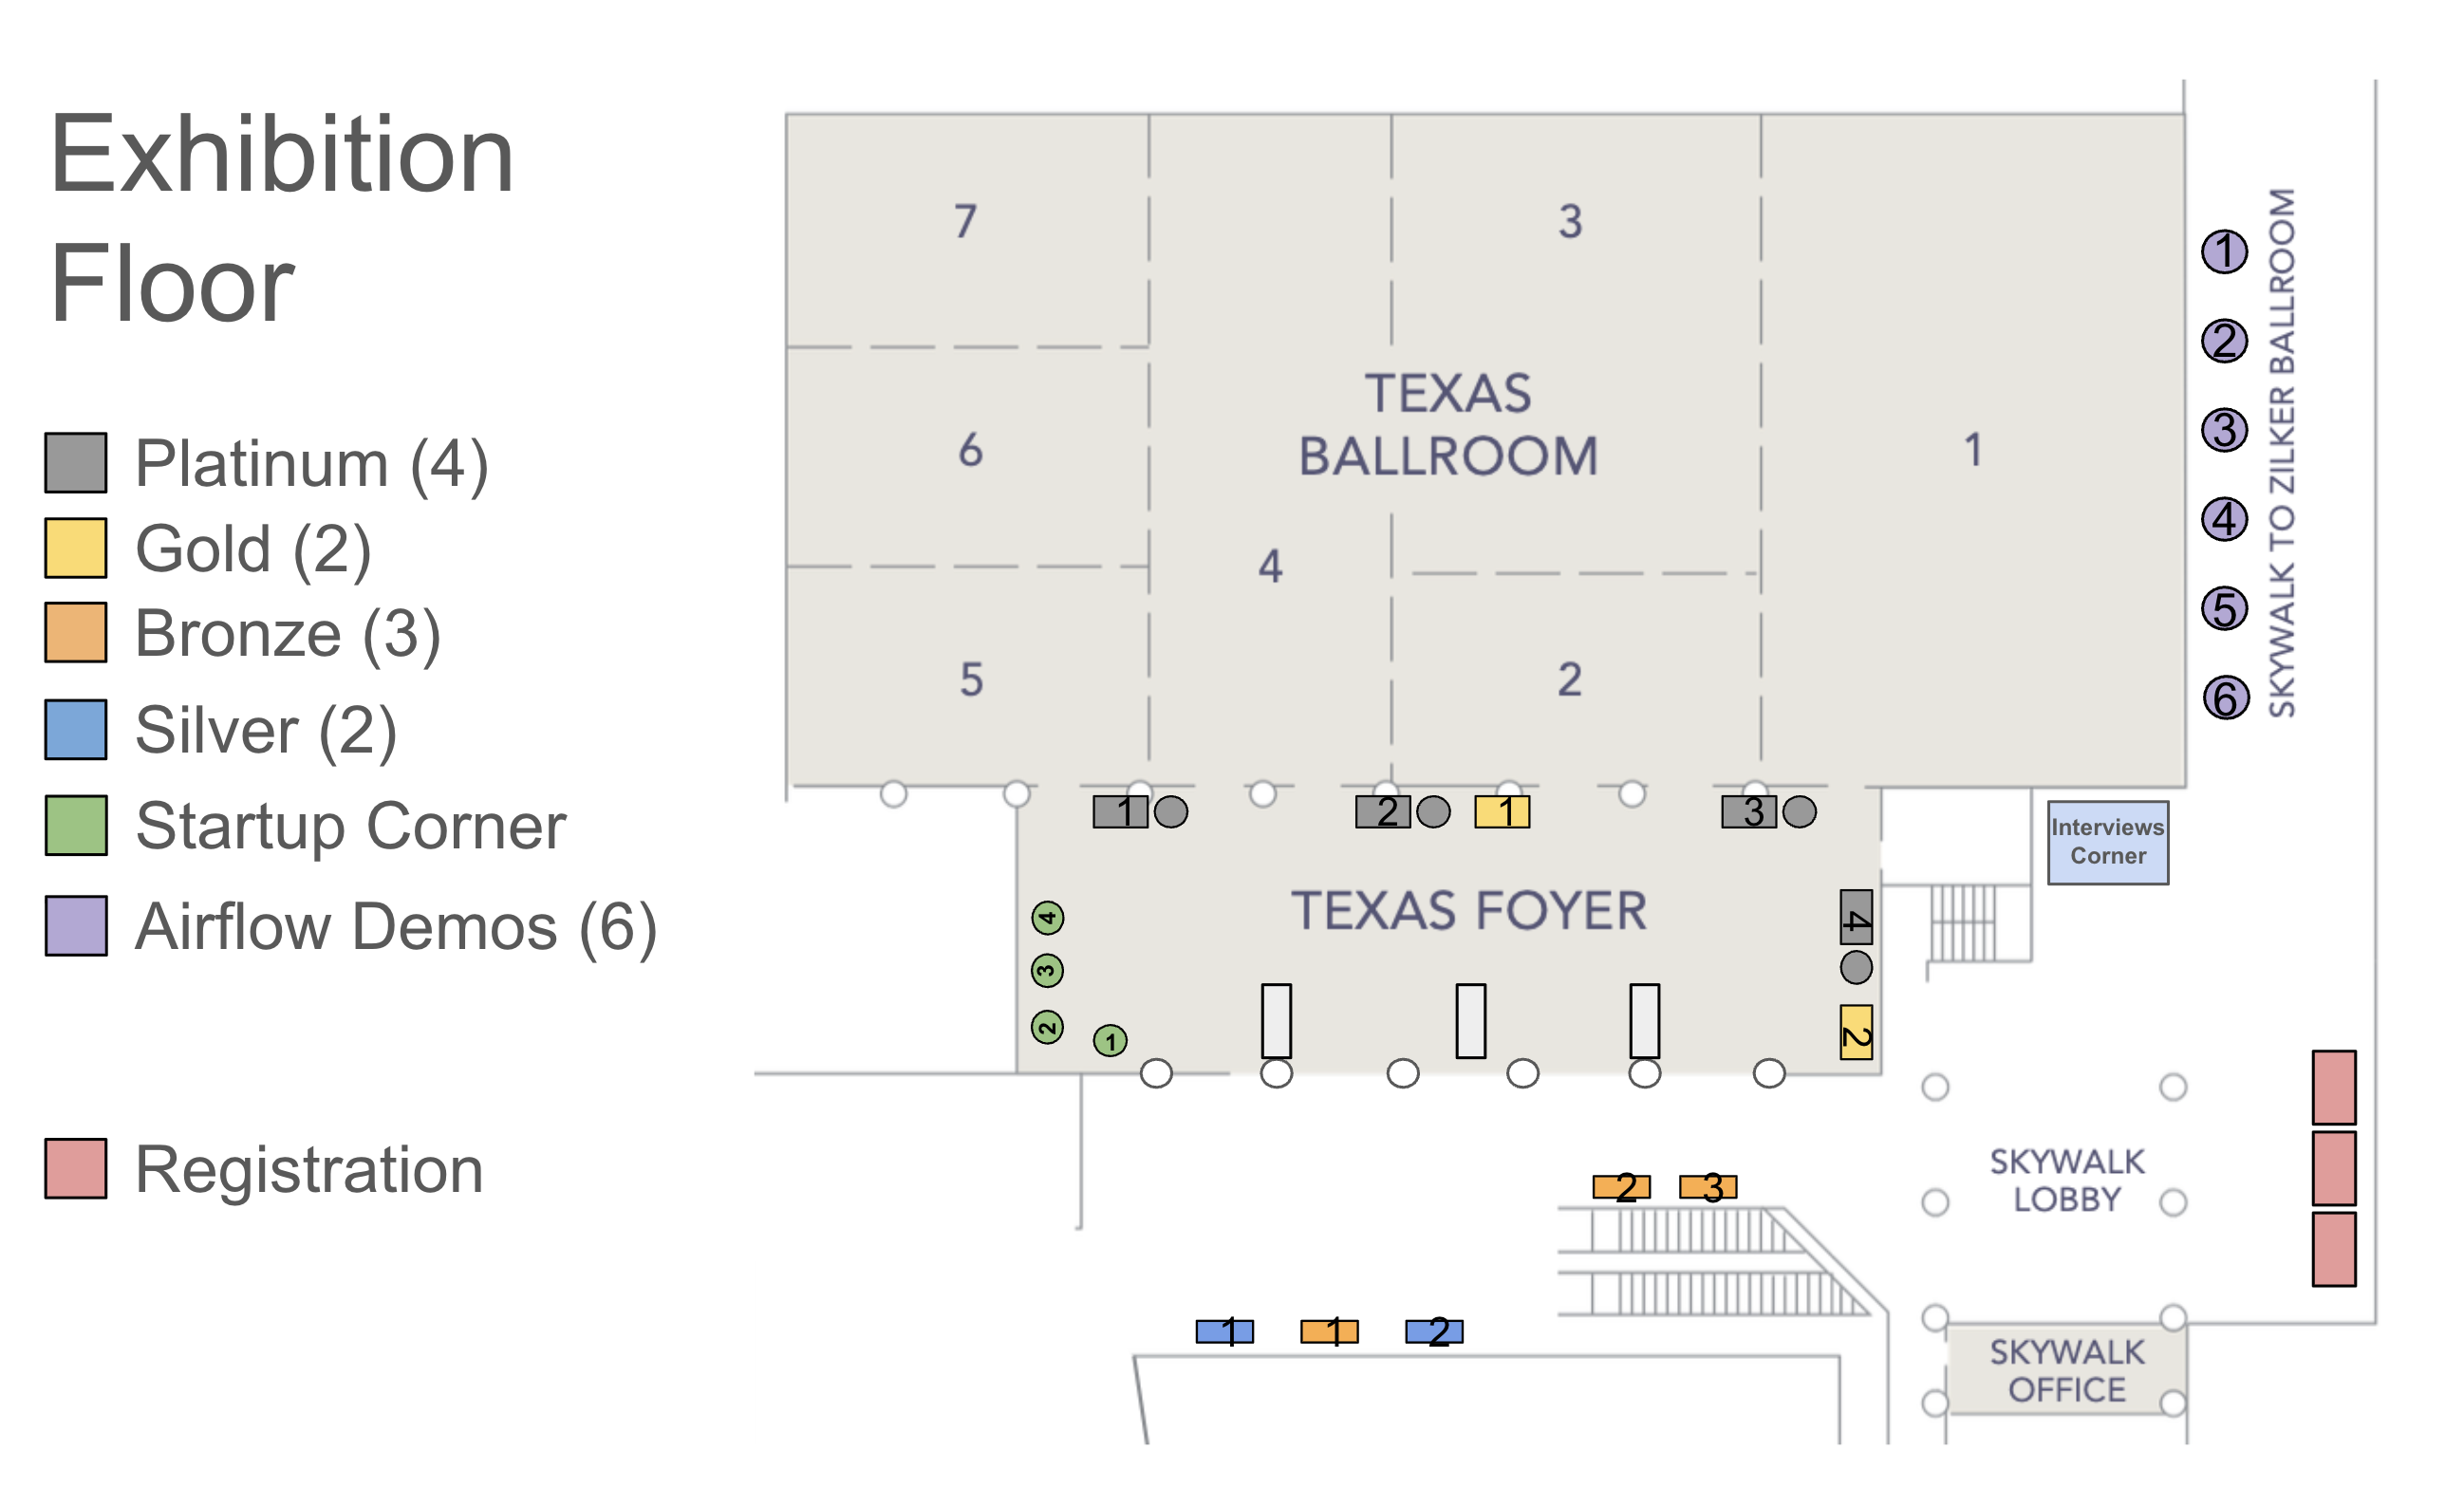
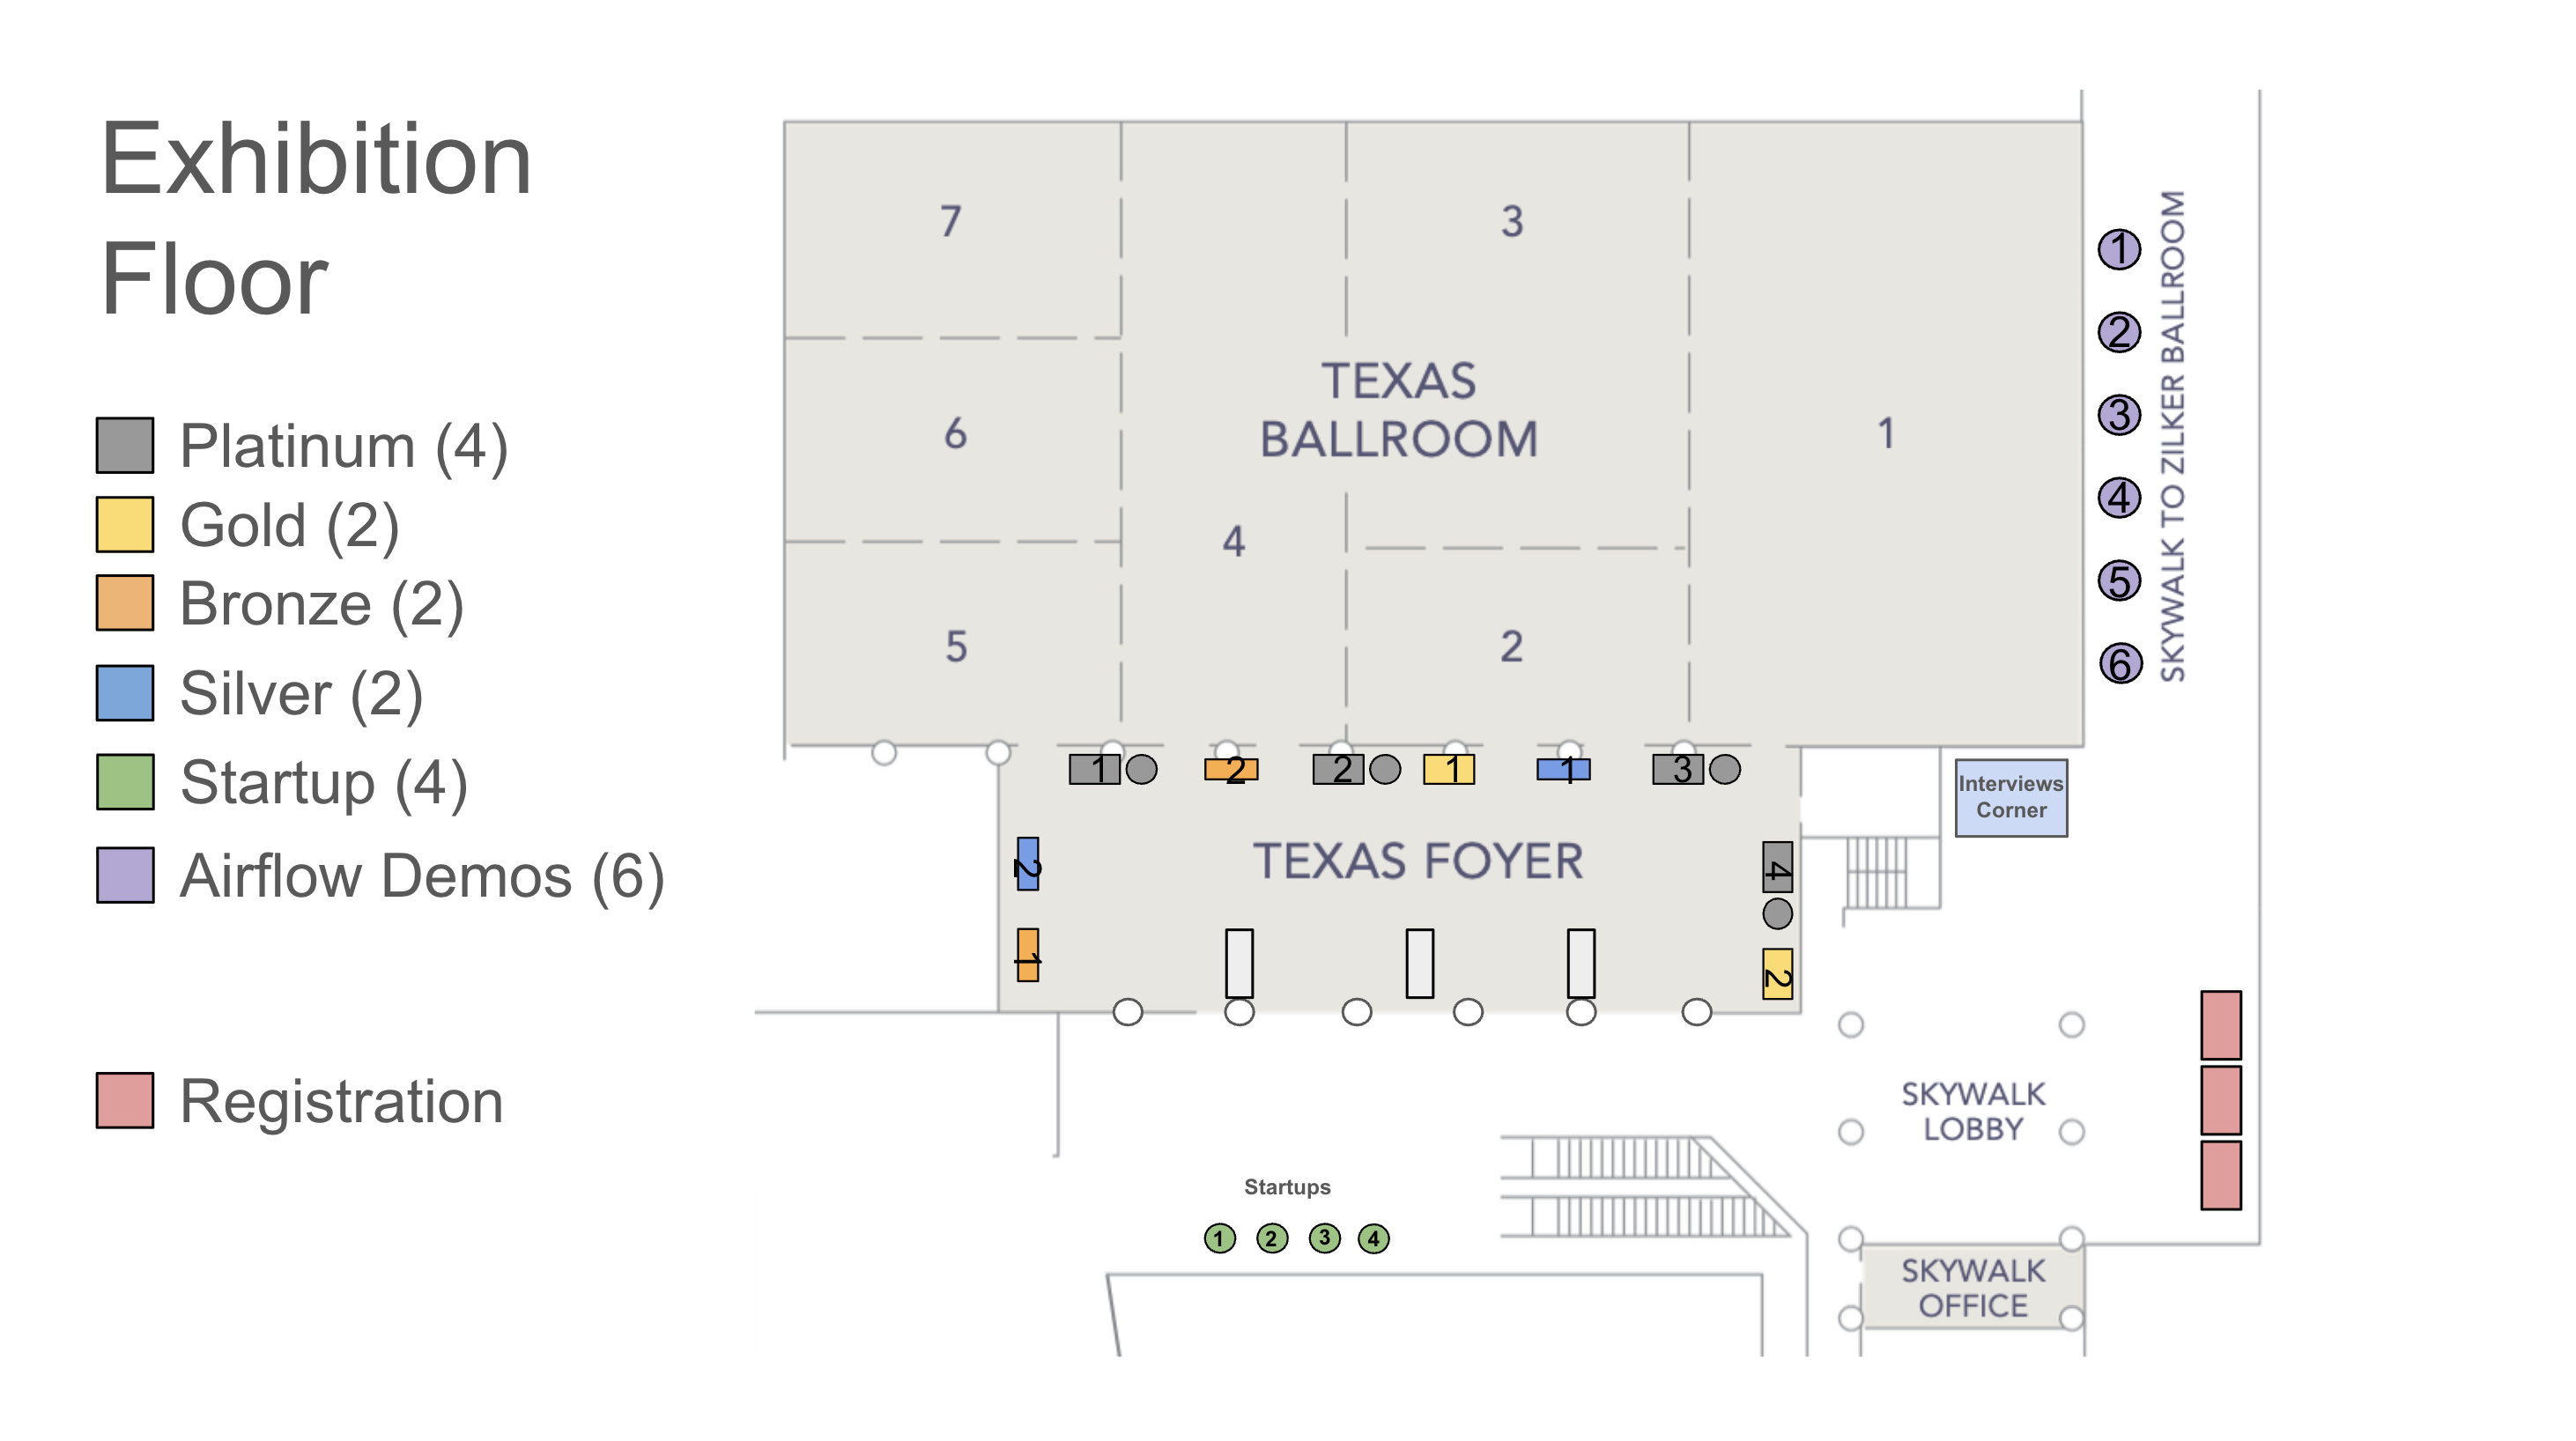
new speakers added

diff --git a/content/speakers/david-sevier/_index.md b/content/speakers/david-sevier/_index.md
@@ -1,0 +1,14 @@
+---
+title: "David Sevier"
+date: 2026-07-01T17:07:20-06:00
+images: 
+ - /images/speakers/david-sevier.jpg
+designation: Staff Consultant, Qbiz Inc.
+twitter: 
+linkedin: 
+github: 
+events:
+ - 2026
+---
+
+David Sevier is a data professional with over 25 years of experience in database architecture, data modeling, and data engineering across industries including FinTech and healthcare. At Qbiz, he has designed and built large-scale data pipelines, automated semantic tagging systems, and analytics data marts supporting outcomes ranging from regulatory compliance to multi-billion-dollar IPOs. His recent work focuses on the intersection of agentic AI and data engineering, exploring how autonomous systems can reduce the manual effort involved in semantic layer management. At Airflow Summit 2026, David will share how Airflow 3 can orchestrate agentic workflows to automatically detect and apply semantic layer updates, bringing reliability and scale to a process that many teams still manage manually.

diff --git a/content/sessions/2026/142. agentic-incident-dag.md b/content/sessions/2026/142. agentic-incident-dag.md
@@ -2,10 +2,9 @@
 title: "Agentic Incident DAG: Structured, Replayable Data Incident Intelligence"
 slug: agentic-incident-dag
 speakers:
- - Victor Samayoa
  - Andres Astorga Espriella
+ - David Sevier
 topics:
- - 
 time_start: 2026-09-02 12:00:00
 time_end: 2026-09-02 12:30:00
 track: Data & AI Applications

diff --git a/content/speakers/wensi-hu/_index.md b/content/speakers/wensi-hu/_index.md
@@ -3,7 +3,7 @@ title: "Wensi Hu"
 date: 2026-04-15T10:54:30-06:00
 images: 
  - /images/speakers/wensi-hu.png
-designation: Senior Software Engineer
+designation: Senior Software Engineer @ Linkedin
 twitter: 
 linkedin: https://www.linkedin.com/in/wensi-hu/
 github: 